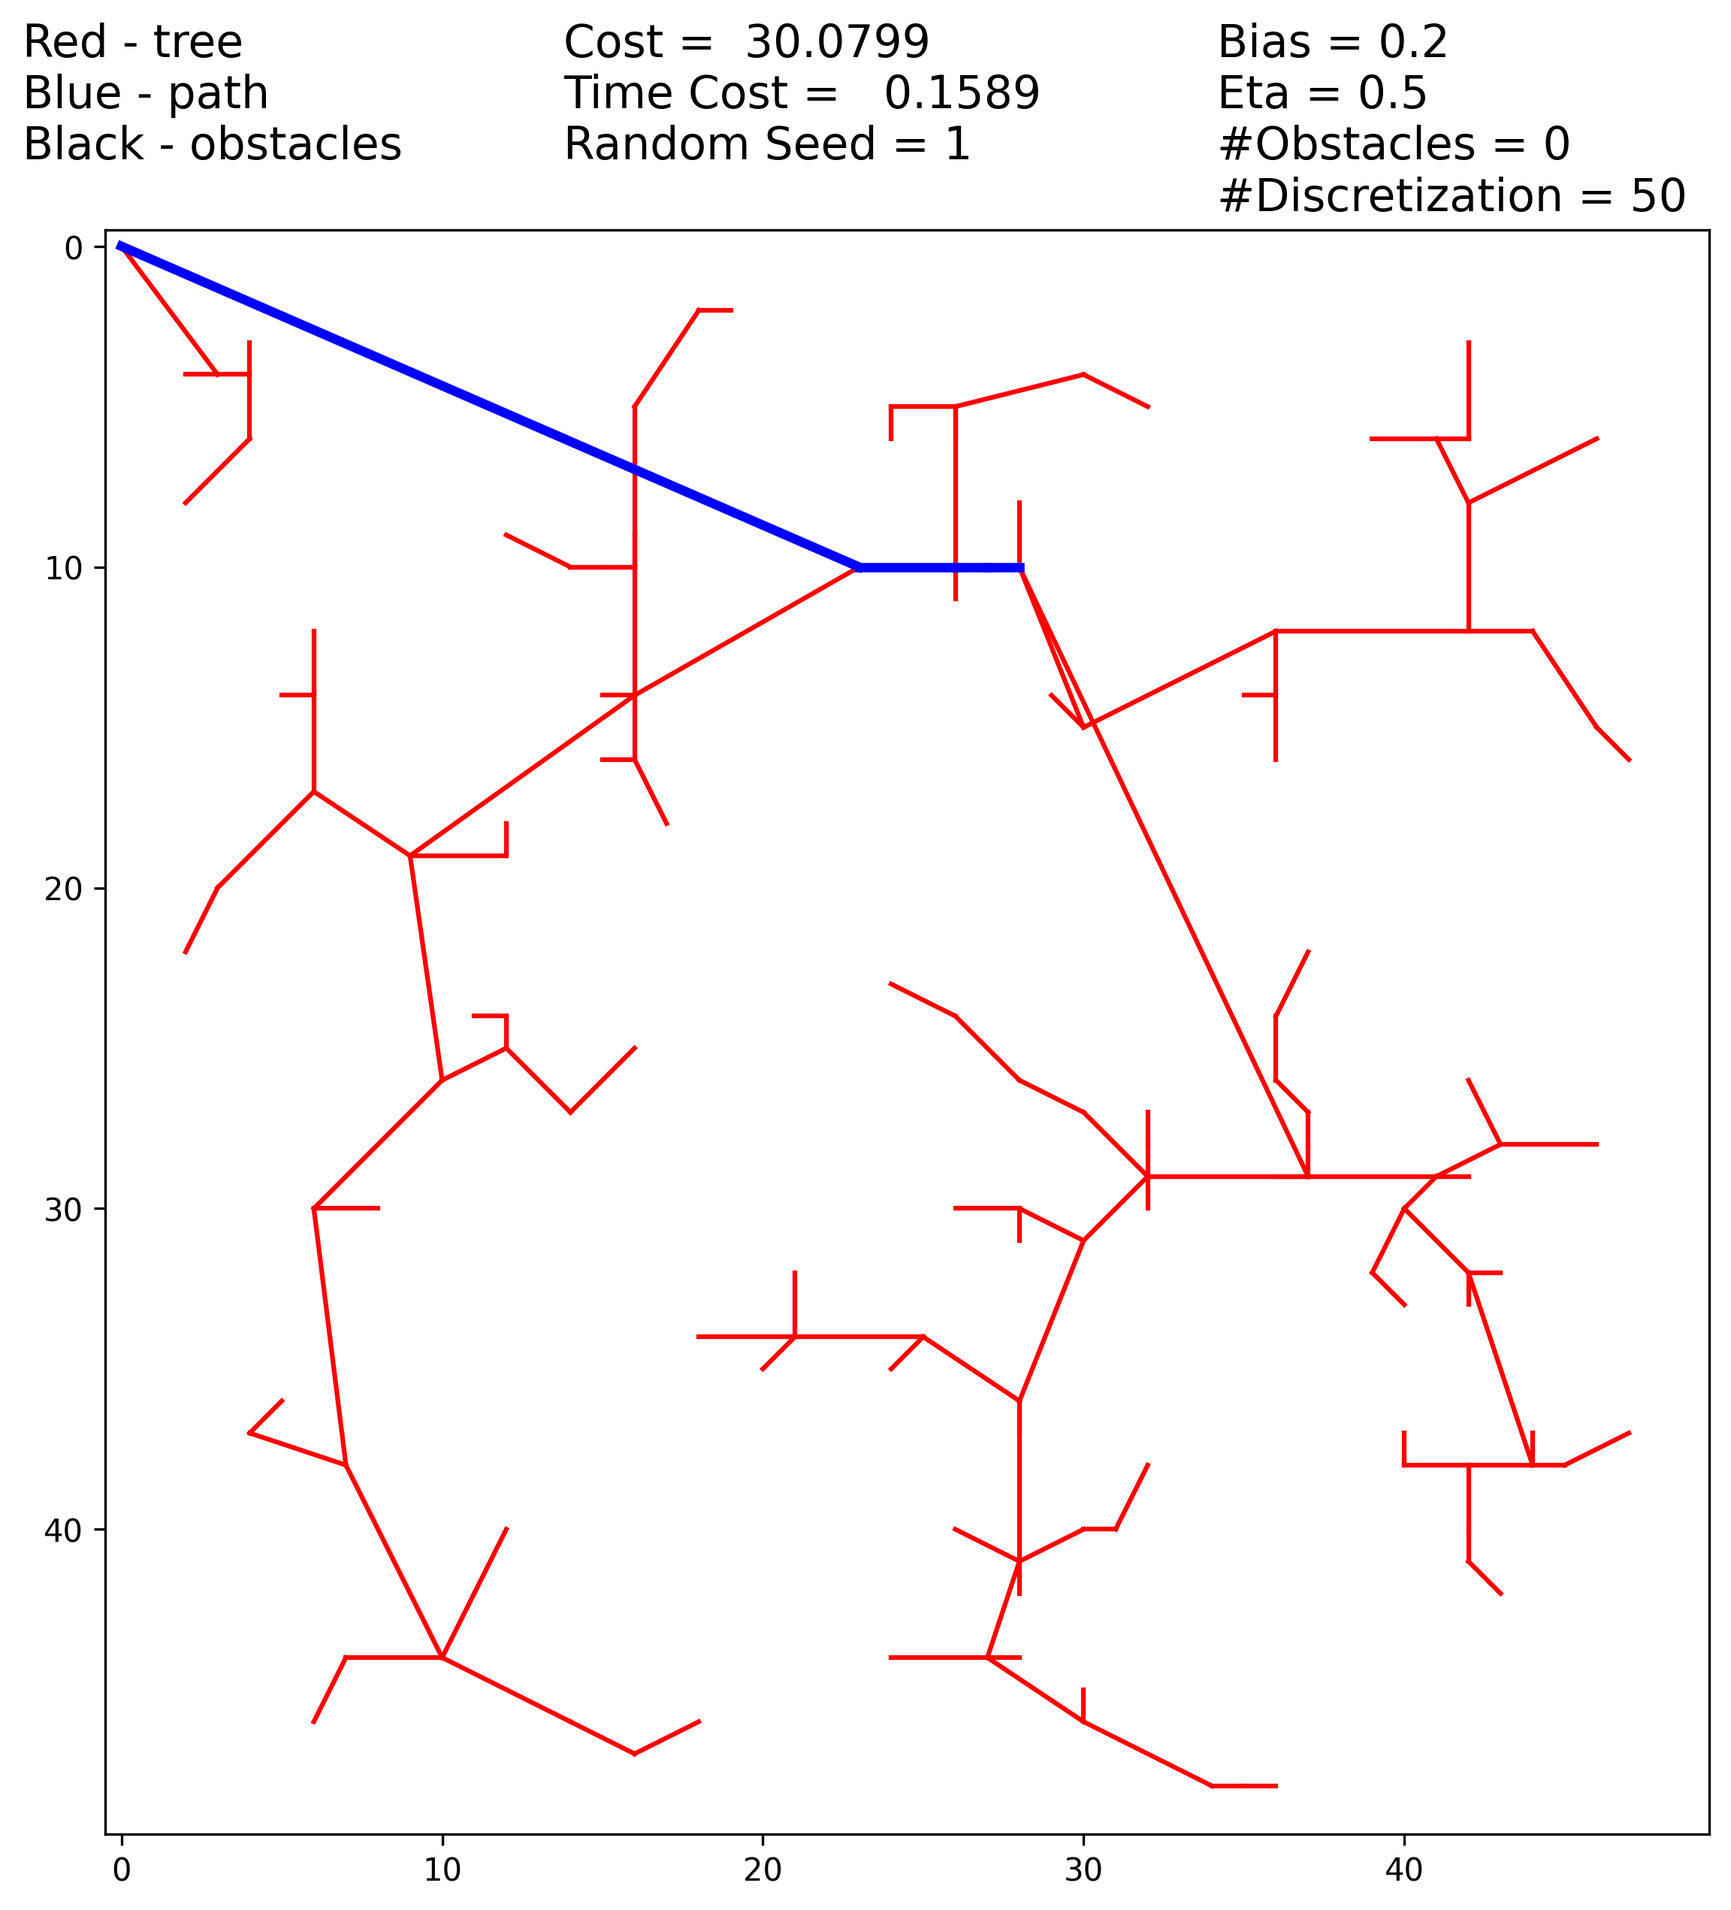
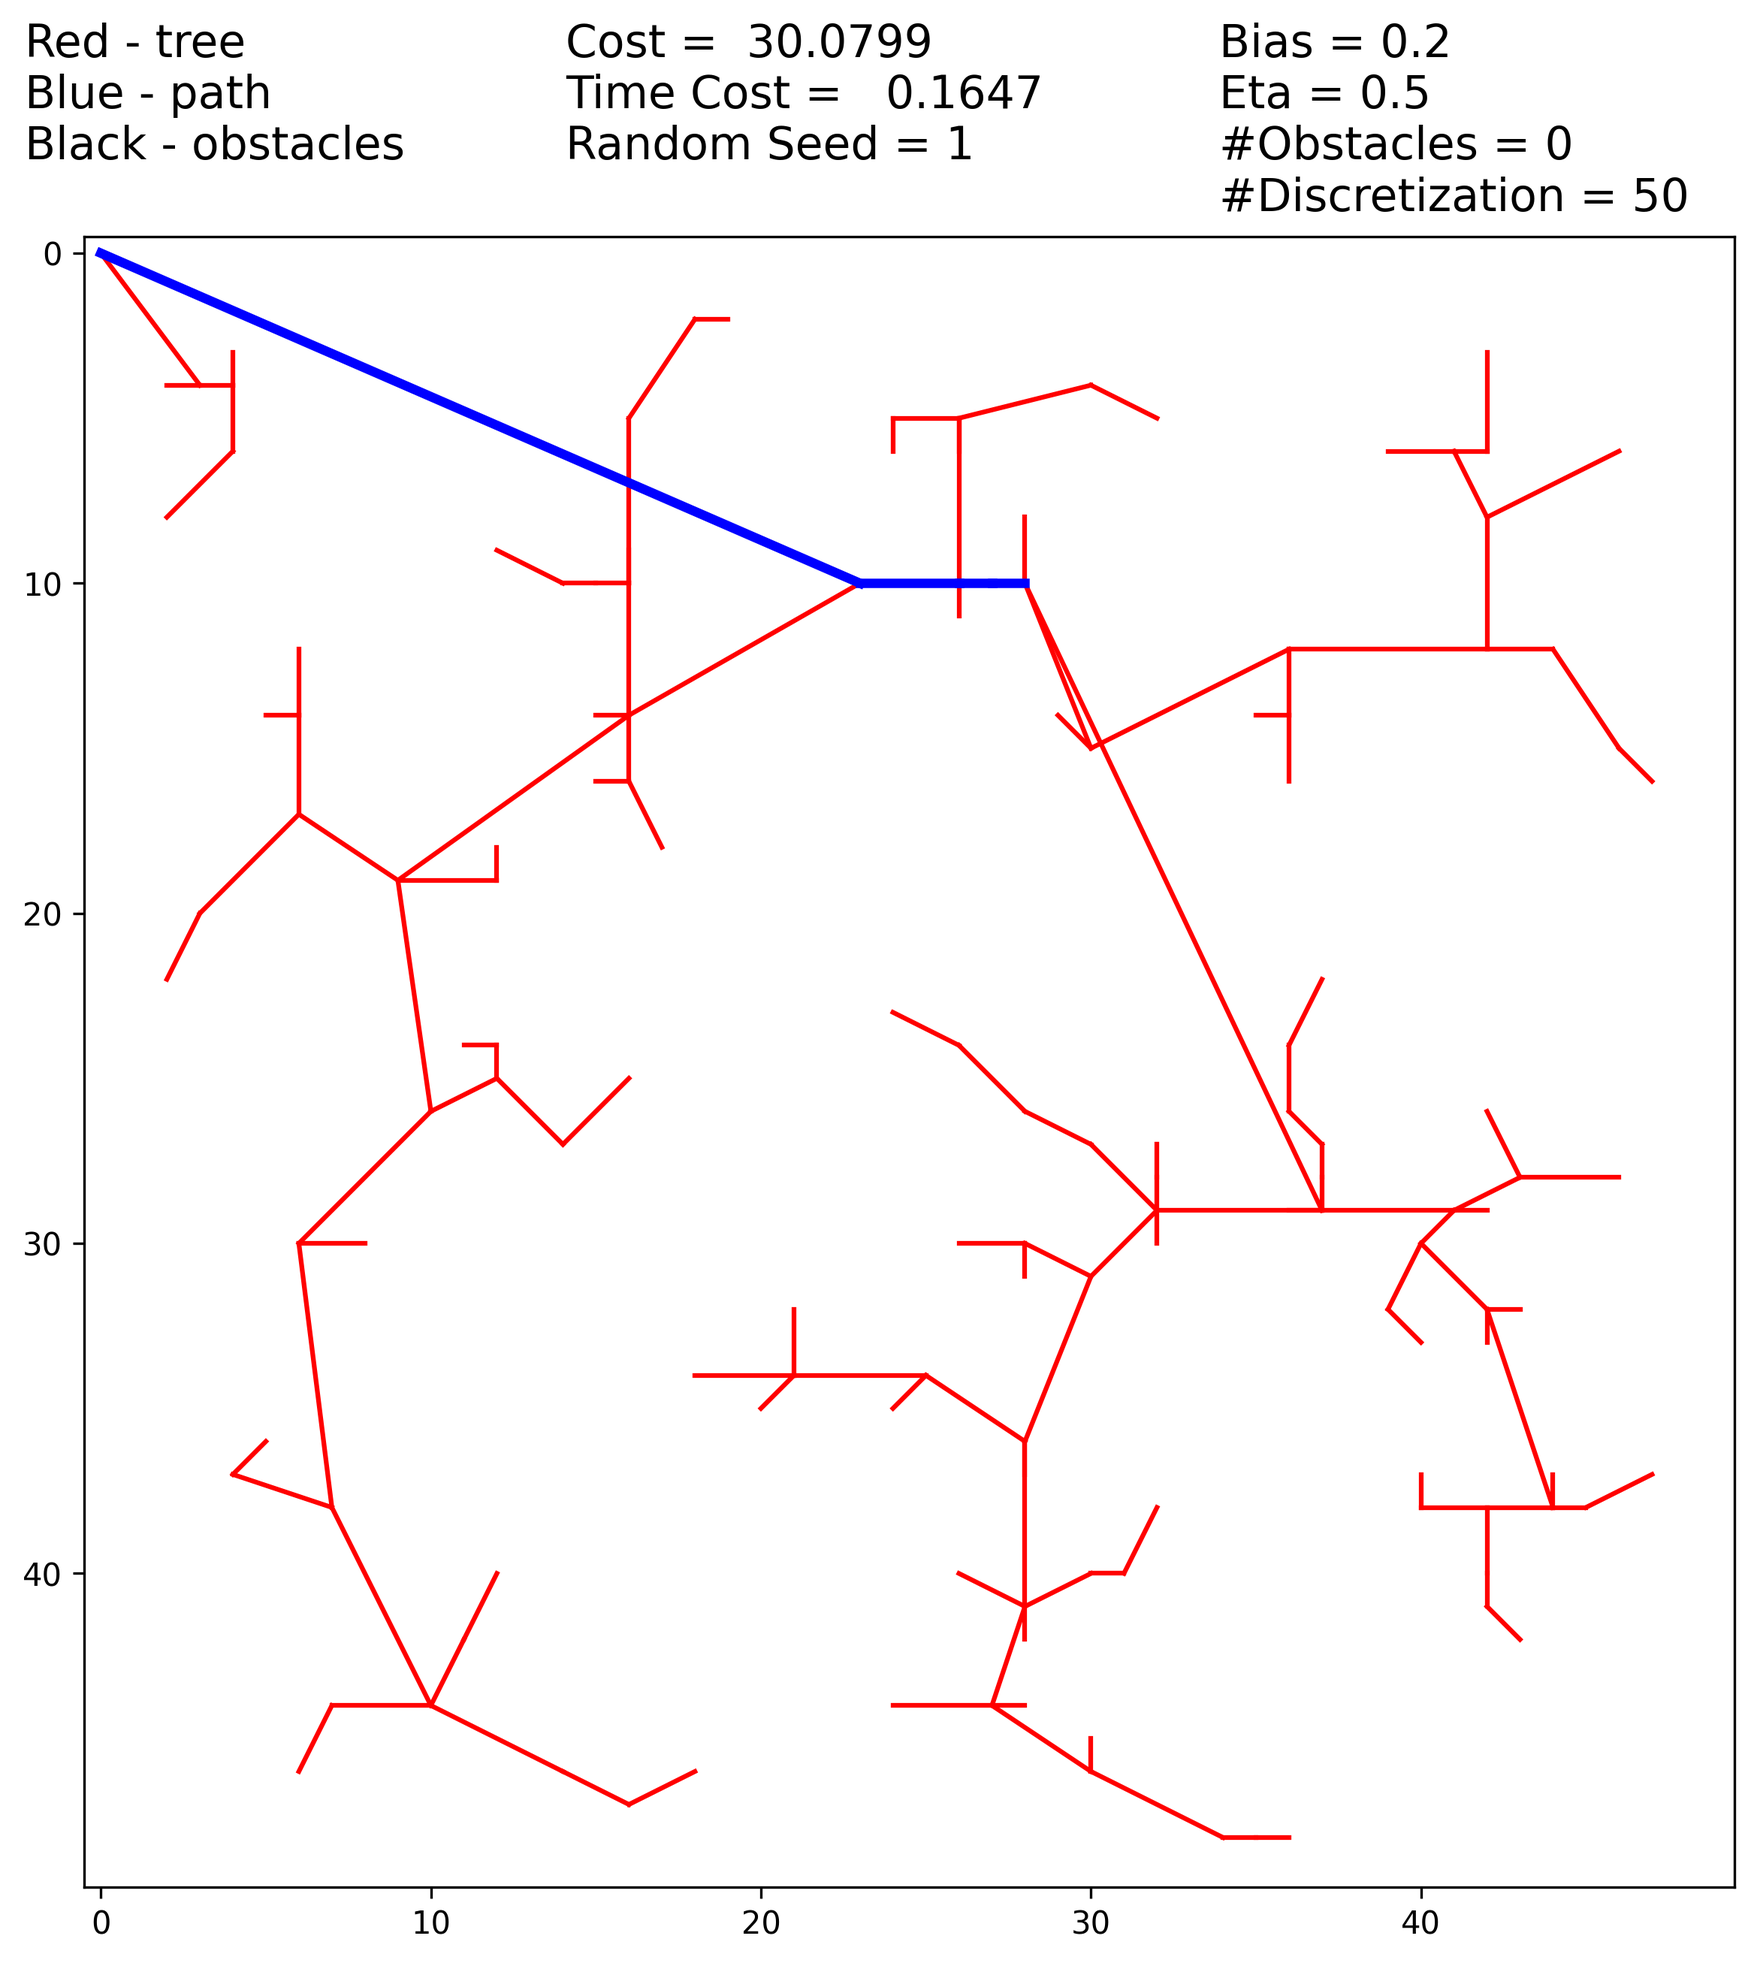
RRT* implemented. Plots generated. LPA*/D* remaining

diff --git a/MotionPlanning/RRTStarPlanner.py b/MotionPlanning/RRTStarPlanner.py
@@ -39,65 +39,64 @@ class RRTStarPlanner(object):
         start_time = time.time()
         path = None
         vertex_id, vertex = None, None
-        is_edge_valid = False
+        branch_id = 0
         # Generate RRT
         #   Seed the tree
         self.tree.AddVertex(start_config)
         #   Expand the tree
-        for branch_id in range(1, self.max_iter+1):
-            # print(f"branch_id: {branch_id}")
+        for id in range(1, self.max_iter+1):
+            # print(f"id: {id}")
             # Randomly sample free state from the map, as long as an 
             # x_rand.shape = (self.c_space_dim, 1)
             # c_space is space of joint angles: 
             # i.e. for 2dof_robot_arm (x, y) = (joint1_angle, joint2_angle)
-            while not is_edge_valid:
-                x_rand = self.sample(goal_config)
-                # print(f"x_rand:\n{x_rand}")
-                # Get the tree vertex nearest to x_rand
-                x_nearest_id, x_nearest_dist = self.tree.GetNearestVertex(x_rand)
-                x_nearest = self.tree.vertices[x_nearest_id]
-                # print(f"x_nearest:\n{x_nearest}")
-                # Check an edge between x_nearest and x_rand for collision/out of map
-                if self.env.edge_validity_checker(x_rand, x_nearest):
-                    is_edge_valid = True
-            is_edge_valid = False
+            x_rand = self.sample(goal_config)
+            # print(f"x_rand:\n{x_rand}")
+            # Get the tree vertex nearest to x_rand
+            x_nearest_id, x_nearest_dist = self.tree.GetNearestVertex(x_rand)
+            x_nearest = self.tree.vertices[x_nearest_id]
+            # print(f"x_nearest:\n{x_nearest}")
 
             # Extend from x_nearest towards x_rand
             x_new = self.extend(x_nearest, x_rand)
             # print(f"x_new:\n{x_new}")
 
-            # Search near neighbors of x_new within radius
-            near_neigh_ids, near_neighs = self.tree.GetNNInRad(x_new, rad)
-            # Connect new vertex to a parent with less cost
-            x_min_id = x_nearest_id
-            x_min = x_nearest
-            cost_min = self.compute_cost(x_nearest_id) + self.env.compute_distance(x_nearest, x_new)
-            for x_near_id, x_near in zip(near_neigh_ids, near_neighs):
-                if self.env.edge_validity_checker(x_new, x_near) and (self.compute_cost(x_near_id) + self.env.compute_distance(x_near, x_new) < cost_min):
-                    x_min_id = x_near_id
-                    x_min = x_near
-                    cost_min = self.compute_cost(x_near_id) + self.env.compute_distance(x_near, x_new)
+            # Check an edge between x_nearest and x_rand for collision/out of map
+            if self.env.edge_validity_checker(x_new, x_nearest):
+                branch_id += 1
+                # Search near neighbors of x_new within radius
+                near_neigh_ids, near_neighs = self.tree.GetNNInRad(x_new, rad)
+                # Connect new vertex to a parent with less cost
+                x_min_id = x_nearest_id
+                x_min = x_nearest
+                cost_min = self.compute_cost(x_nearest_id) + self.env.compute_distance(x_nearest, x_new)
+                for x_near_id, x_near in zip(near_neigh_ids, near_neighs):
+                    if self.env.edge_validity_checker(x_new, x_near) and (self.compute_cost(x_near_id) + self.env.compute_distance(x_near, x_new) < cost_min):
+                        x_min_id = x_near_id
+                        x_min = x_near
+                        cost_min = self.compute_cost(x_near_id) + self.env.compute_distance(x_near, x_new)
 
-            # Add x_new to tree vertices
-            dist = self.env.compute_distance(x_min, x_new)
-            self.tree.AddVertex(x_new, cost=dist)
-            # Add edge between x_near and x_new
-            self.tree.AddEdge(x_min_id, branch_id)
+                # Add x_new to tree vertices
+                dist = self.env.compute_distance(x_min, x_new)
+                self.tree.AddVertex(x_new, cost=dist)
+                # Add edge between x_near and x_new
+                self.tree.AddEdge(x_min_id, branch_id)
 
-            # Rewire nearby vertices through new vertex
-            for x_near_id, x_near in zip(near_neigh_ids, near_neighs):
-                if self.env.edge_validity_checker(x_new, x_near) and (self.compute_cost(branch_id) + self.env.compute_distance(x_near, x_new) < self.compute_cost(x_near_id)):
-                    self.tree.AddEdge(branch_id, x_near_id)
+                # Rewire nearby vertices through new vertex
+                for x_near_id, x_near in zip(near_neigh_ids, near_neighs):
+                    if self.env.edge_validity_checker(x_new, x_near) and (self.compute_cost(branch_id) + self.env.compute_distance(x_near, x_new) < self.compute_cost(x_near_id)):
+                        self.tree.AddEdge(branch_id, x_near_id)
+                        self.tree.costs[x_near_id] = self.env.compute_distance(x_near, x_new)
 
-            # If x_new satisfy the goal criterion (close to the goal within some range), 
-            # start looking for vertices to build the path 
-            if branch_id % 600 == 0:
-                vertex_id, vertex_dist = self.tree.GetNearestVertex(goal_config)
-                vertex = self.tree.vertices[vertex_id]
-                # print(f"vertex:\n{vertex}")
-                if self.env.goal_criterion(vertex):
-                    path = []
-                    break
+                # If x_new satisfy the goal criterion (close to the goal within some range), 
+                # start looking for vertices to build the path 
+                if branch_id % 600 == 0:
+                    vertex_id, vertex_dist = self.tree.GetNearestVertex(goal_config)
+                    vertex = self.tree.vertices[vertex_id]
+                    # print(f"vertex:\n{vertex}")
+                    if self.env.goal_criterion(vertex):
+                        path = []
+                        break
 
         # Double make sure that in case of different max_iter, we won't miss the path after all iterations
         vertex_id, vertex_dist = self.tree.GetNearestVertex(goal_config)
@@ -106,9 +105,12 @@ class RRTStarPlanner(object):
             path = []
 
         # Search the path
+        _cost = 0
+        cost = 0
         if path is not None:
             print(f"\n#Iterations: {len(self.tree.vertices)-1}")
             while not np.array_equal(vertex, start_config):
+                _cost += self.tree.costs[vertex_id]
                 path.append(tuple(vertex.flatten()))
                 # Find the parent of the current vertex
                 vertex_id = self.tree.edges[vertex_id]
@@ -117,11 +119,13 @@ class RRTStarPlanner(object):
             # Reverse the order of vertices
             path.reverse()
             path = np.array(path)
-
-        cost = [self.env.compute_distance(path[i], path[i+1]) for i in range(len(path)-1)]
+            cost = sum([self.env.compute_distance(path[i], path[i+1]) for i in range(len(path)-1)])
+        
+        print(f"cost(dist): {cost}")
+        print(f"cost(list): {_cost}")
         end_time = time.time()
         self.tree.time_cost = end_time - start_time
-        self.tree.path_cost = round(sum(cost), 4)
+        self.tree.path_cost = cost
 
         return path
 

diff --git a/MotionPlanning/RRTPlanner.py b/MotionPlanning/RRTPlanner.py
@@ -22,46 +22,44 @@ class RRTPlanner(object):
         start_time = time.time()
         path = None
         vertex_id, vertex = None, None
-        is_edge_valid = False
+        branch_id = 0
         # Generate RRT
         #   Seed the tree
         self.tree.AddVertex(start_config)
         #   Expand the tree
-        for branch_id in range(1, self.max_iter+1):
+        for id in range(1, self.max_iter+1):
             # Randomly sample free state from the map, as long as an 
             # x_rand.shape = (self.c_space_dim, 1)
             # c_space is space of joint angles: 
             # i.e. for 2dof_robot_arm (x, y) = (joint1_angle, joint2_angle)
-            while not is_edge_valid:
-                x_rand = self.sample(goal_config)
-                # print(f"x_rand:\n{x_rand}")
-                # Get the tree vertex nearest to x_rand
-                x_near_id, x_near_dist = self.tree.GetNearestVertex(x_rand)
-                x_near = self.tree.vertices[x_near_id]
-                # print(f"x_near:\n{x_near}")
-                # Check an edge between x_near and x_rand for collision/out of map
-                if self.env.edge_validity_checker(x_rand, x_near):
-                    is_edge_valid = True
-            is_edge_valid = False
+            x_rand = self.sample(goal_config)
+            # print(f"x_rand:\n{x_rand}")
+            # Get the tree vertex nearest to x_rand
+            x_near_id, x_near_dist = self.tree.GetNearestVertex(x_rand)
+            x_near = self.tree.vertices[x_near_id]
+            # print(f"x_near:\n{x_near}")
 
             # Extend from x_near towards x_rand
             x_new = self.extend(x_near, x_rand)
             # print(f"x_new:\n{x_new}")
 
-            # Add x_new to tree vertices
-            dist = self.env.compute_distance(x_near, x_new)
-            self.tree.AddVertex(x_new, cost=dist)
-            # Add edge between x_near and x_new
-            self.tree.AddEdge(x_near_id, branch_id)
+            # Check an edge between x_near and x_rand for collision/out of map
+            if self.env.edge_validity_checker(x_new, x_near):
+                branch_id += 1
+                # Add x_new to tree vertices
+                dist = self.env.compute_distance(x_near, x_new)
+                self.tree.AddVertex(x_new, cost=dist)
+                # Add edge between x_near and x_new
+                self.tree.AddEdge(x_near_id, branch_id)
 
-            # If x_new satisfy the goal criterion (close to the goal within some range), 
-            # start looking for vertices to build the path 
-            if branch_id % 200 == 0:
-                vertex_id, vertex_dist = self.tree.GetNearestVertex(goal_config)
-                vertex = self.tree.vertices[vertex_id]
-                if self.env.goal_criterion(vertex):
-                    path = []
-                    break
+                # If x_new satisfy the goal criterion (close to the goal within some range), 
+                # start looking for vertices to build the path 
+                if branch_id % 200 == 0:
+                    vertex_id, vertex_dist = self.tree.GetNearestVertex(goal_config)
+                    vertex = self.tree.vertices[vertex_id]
+                    if self.env.goal_criterion(vertex):
+                        path = []
+                        break
 
         # Double make sure that in case of different max_iter, we won't miss the path after all iterations
         vertex_id, vertex_dist = self.tree.GetNearestVertex(goal_config)
@@ -70,9 +68,11 @@ class RRTPlanner(object):
             path = []
 
         # Search the path
+        cost = 0
         if path is not None:
             print(f"\n#Iterations: {len(self.tree.vertices)-1}")
             while not np.array_equal(vertex, start_config):
+                cost += self.tree.costs[vertex_id]
                 path.append(tuple(vertex.flatten()))
                 # Find the parent of the current vertex
                 vertex_id = self.tree.edges[vertex_id]
@@ -82,10 +82,9 @@ class RRTPlanner(object):
             path.reverse()
             path = np.array(path)
             
-        cost = [self.env.compute_distance(path[i], path[i+1]) for i in range(len(path)-1)]
         end_time = time.time()
         self.tree.time_cost = end_time - start_time
-        self.tree.path_cost = round(sum(cost), 4)
+        self.tree.path_cost = cost
 
         return path
 

diff --git a/MotionPlanning/envs/ArmEnvironment.py b/MotionPlanning/envs/ArmEnvironment.py
@@ -17,7 +17,7 @@ class ArmEnvironment:
         self.set_ee_link()
         self.joint_info = self.get_revolute_joint_info()
         self.joint_indices = [i[0] for i in self.joint_info]
-        self.goal_tolerance = 1.0
+        self.goal_tolerance = 0.05
         self.num_discretize = num_discretize
         self.calculate_c_space()
         self.map = np.array(self.c_space, dtype=np.uint8)
@@ -133,6 +133,11 @@ class ArmEnvironment:
 
         @param plan: a final [n x 2] numpy array of states
         """
+        # Turn off interactive mode. If turned-on, then after ax1.imshow() terminal waits for user interaction (pressing Ctrl button) -> program flow execution stops
+        plt.ioff()
+        if plt.isinteractive():
+            plt.interactive(False)
+
         image_map = np.repeat(self.map[:, :, None], repeats=3, axis=2)
         visit_map = (1 - np.copy(image_map))*255 # black is obstacle, white is free space
 
@@ -141,6 +146,9 @@ class ArmEnvironment:
 
         if visited is not None:
             visit_map[visited == 1] = 0.5
+        
+        # image reference frame starts from top-left corner with x-axis -> right and y-axis -> down
+        # this reference frame remains for later plots
         self.ax1.imshow(visit_map, interpolation="nearest", cmap="gray")
 
         if tree is not None:
@@ -152,6 +160,8 @@ class ArmEnvironment:
                 x = [sconfig[0], econfig[0]]
                 y = [sconfig[1], econfig[1]]
                 self.ax1.plot(y, x, 'r')
+            self.fig.canvas.draw()
+            plt.pause(1e-10)
 
         if plan is not None:
             plan = plan.T
@@ -162,9 +172,6 @@ class ArmEnvironment:
                 plt.plot(y, x, 'b', linewidth=3)
                 self.fig.canvas.draw()
                 plt.pause(.025) 
-
-        self.fig.canvas.draw()
-        plt.pause(1e-10)
 
         self.fig.suptitle(t='Red - tree\nBlue - path\nBlack - obstacles', 
                           x=.12, y=.98, ha='left', va='top', fontsize='x-large')
@@ -181,7 +188,7 @@ class ArmEnvironment:
         else:
             print("\nPress Enter to close plot visualization...")
             input()
-        # Free up the memory used by the image
+        # Free up the memory used by the image, and close the plots. Otherwise terminals waits for user interaction
         plt.close()
         # plt.show()
         
